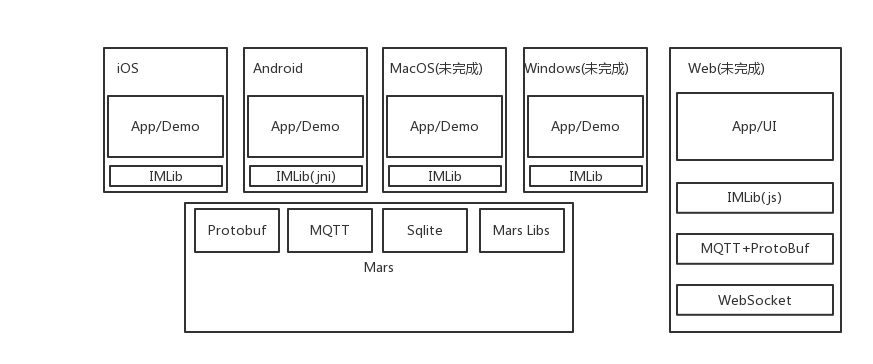
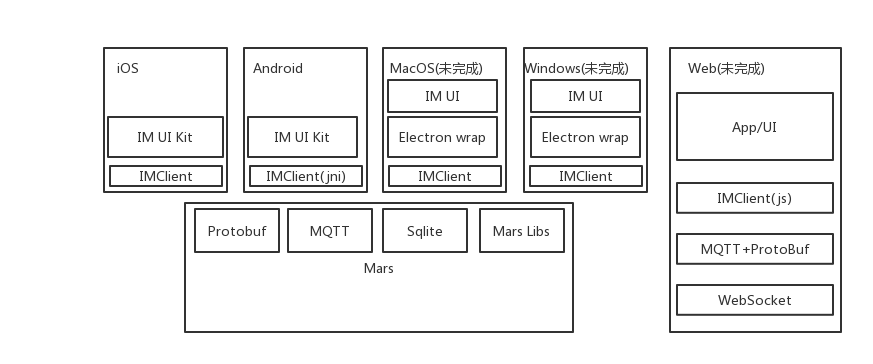
update

diff --git a/md/architecture/README.md b/md/architecture/README.md
@@ -17,6 +17,15 @@ SDK内嵌于应用内，只需要调用connect，传入用户Id和token，SDK会
 ## 应用客户端
 应用客户端，使用sdk，负责im的UI展示。野火IM提供一个简单的demo，可以作为一个聊天客户端直接使用，也可以移植聊天相关的UI到客户应用中去。
 
+## 推送
+野火IM会把需要推送的信息发送到推送服务器，推送服务器推送信息到APNS/华为推送/小米推送等。其中android平台有推送SDK。推送服务和推送SDK都是开源的。
+
+## 机器人服务
+可以在野火IM服务中添加机器人角色，然后所有发给机器人的消息都会发送到指定的服务，处理后可以用过IM服务发回去。在我们的demo中有个“小火”的机器人，可以单聊或在群里@。
+
+## 频道服务（未完成)
+频道是有点类似与微信中的公众号功能，用户可以订阅，然后频道主可以发送消息给所有订阅用户。可以部署频道服务来处理类似微信公众号的功能。
+
 ## 流程图
 #### 登陆
   * 登陆
